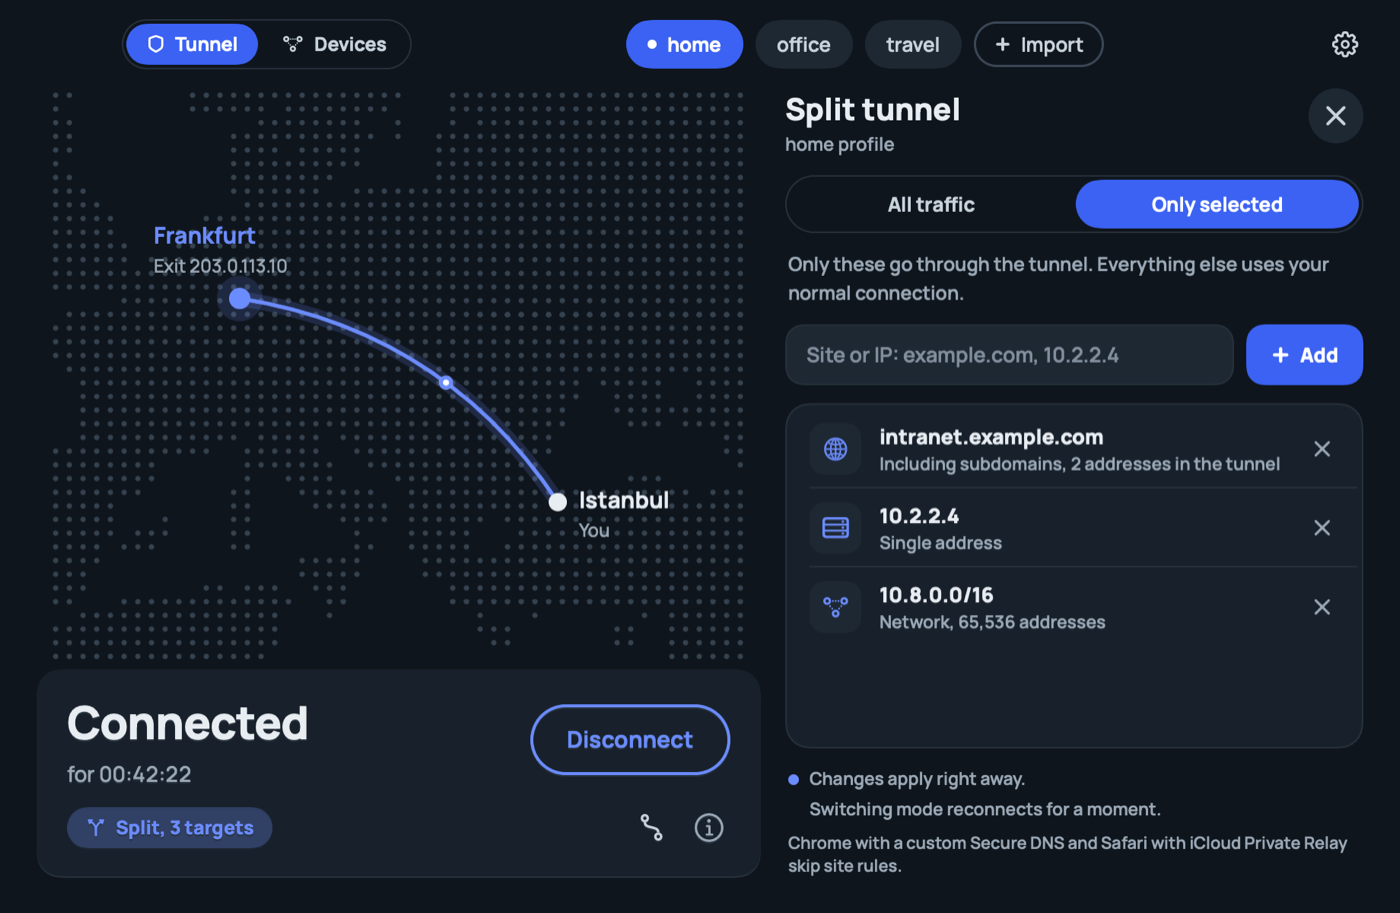
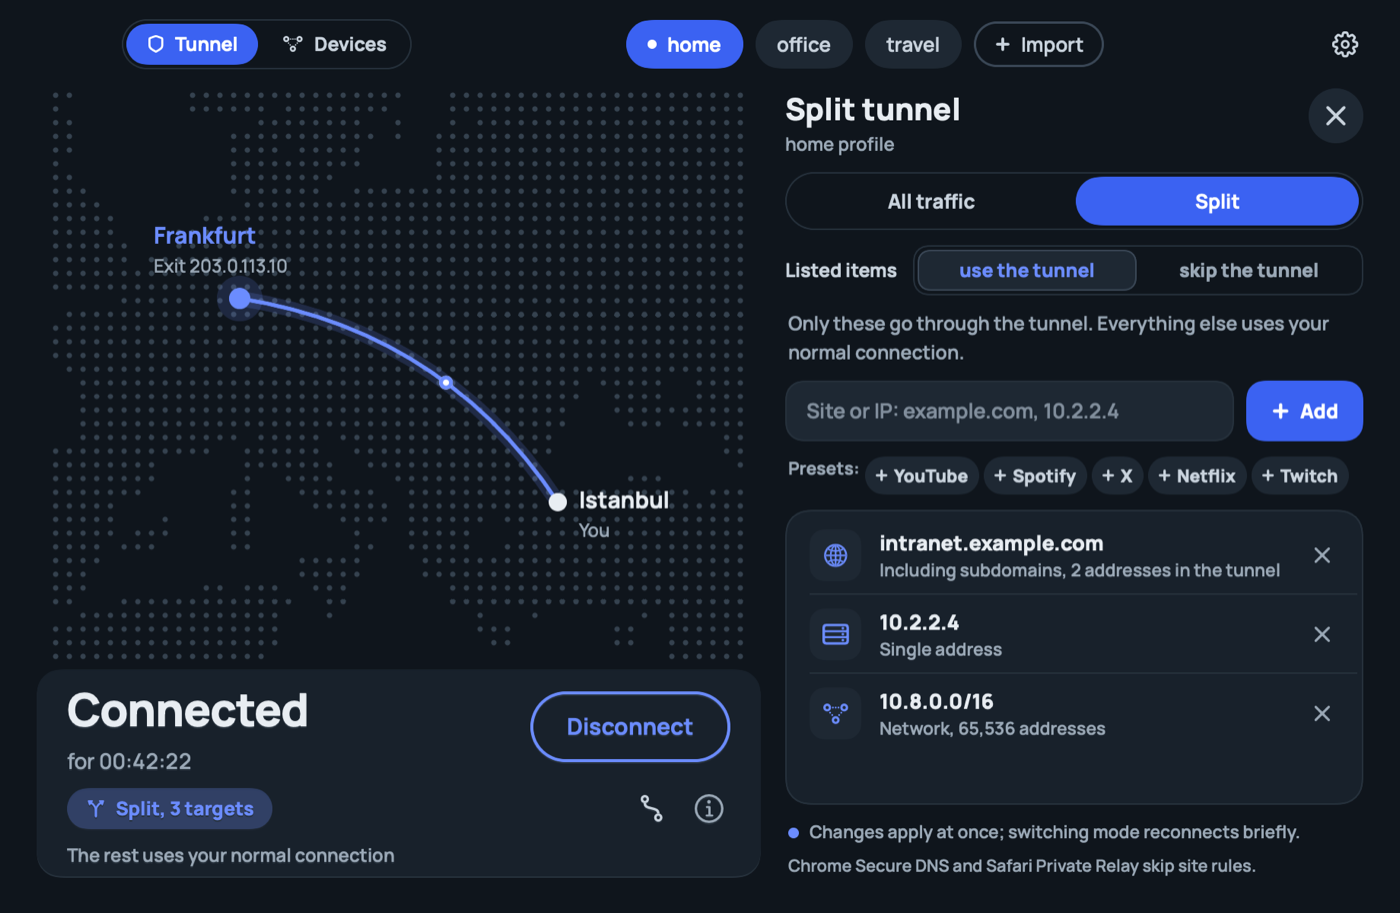
Split exclude docs, version 1.6.0

diff --git a/README.md b/README.md
@@ -40,7 +40,7 @@ It runs the same userspace implementation the official app uses ([wireguard-go](
 - **Survives network changes** — Wi-Fi switches and sleep/wake re-point the server route automatically.
 - **Route on the map** — trace the path to your VPN server or any site in about a second: every stop on the map, the encrypted part and the open-internet part drawn differently, and the stop where latency jumps. [More below](#route-trace).
 - **Devices on your network** — a map of everything on your Wi-Fi or Ethernet with the router in the middle, with names, kinds and vendors, an open-port check on request, and a notification when a device you haven't seen before joins. [More below](#devices).
-- **Split tunnel** — per profile, send only the sites and IPs you pick through the tunnel and everything else over your normal connection; add or remove them while connected. [More below](#split-tunnel).
+- **Split tunnel** — per profile, either send only the sites and IPs you pick through the tunnel, or send everything through it except the ones you list (with one-click presets for YouTube, Spotify, X, Netflix and Twitch); add or remove them while connected. [More below](#split-tunnel).
 - **Reconnects by itself** — if the tunnel drops, Wirely retries in the background (right away after sleep or when the network comes back) until it's up again.
 - **Settings that look like the app** — profiles (edit, rename, export, delete), connection, language, notifications, open at login and connect on launch, all on one page inside the window (⌘,).
 - **Tells you about updates** — once a day it checks GitHub for a new release and shows what's new in the app.
@@ -146,18 +146,46 @@ Switch to **Devices** at the top left. The router sits in the middle, every othe
 ### Split tunnel
 
 <p align="center">
-  <img src="docs/images/split-dark.png" width="620" alt="Wirely split tunnel: the map with the status card reading Split, 3 targets, and on the right the split panel set to Only selected with intranet.example.com, 10.2.2.4 and 10.8.0.0/16 in the list">
+  <img src="docs/images/split-dark.png" width="620" alt="Wirely split tunnel: the map with the status card reading Split, 3 targets, and on the right the split panel set to Split with intranet.example.com, 10.2.2.4 and 10.8.0.0/16 in the list">
+</p>
+<p align="center">
+  <img src="docs/images/split-exclude-dark.png" width="620" alt="Wirely split tunnel in exclude mode: the status card reading Tunnel, 3 excluded, and on the right the split panel set to Listed items skip the tunnel with the YouTube and Spotify presets and example.org in the list">
 </p>
 
-The button under the status on the main page (it reads *All traffic through the tunnel* or *Split, 3 targets*) opens the split panel. Choose **All traffic** (the default) or **Only selected**, then type a site (`example.com` covers its subdomains), an IP (`10.2.2.4`) or a network (`10.8.0.0/16`). Esc closes the panel.
+The button under the status on the main page opens the split panel. It reads *All traffic through the tunnel*, *Split, 3 targets* or *Tunnel, 3 excluded*. Esc closes the panel.
+
+Choose **All traffic** (the default) or **Split**. In Split, choose what the list means: **Listed items: use the tunnel** or **Listed items: skip the tunnel**. Each direction keeps its own list, so switching back and forth loses nothing.
+
+You can type a site (`example.com` covers its subdomains), an IP (`10.2.2.4`), a network (`10.8.0.0/16`) or a service name. Typing `youtube.com` or picking the YouTube preset adds every domain that service uses. The **Presets** chips cover YouTube, Spotify, X, Netflix and Twitch. A group row expands to show its domains.
+
+**Use the tunnel** (include):
 
 - **IP rules** become routes through the tunnel. The profile's own networks (AllowedIPs other than `0.0.0.0/0`) stay in the tunnel and show as *From the profile*.
 - **Site rules:** the service runs a small DNS forwarder on `127.0.0.1:53` and points macOS at it while you're connected. Names in your list are looked up through the profile's DNS servers inside the tunnel, and every address in the answer gets a route through the tunnel before the answer reaches the app. Every other name goes to your normal DNS servers unchanged. If another app already uses port 53, site rules are off and Wirely says so; IP rules keep working.
 - **Addresses the server doesn't accept** (not in the profile's AllowedIPs) are never routed into the tunnel, so the site doesn't hang. The panel shows them in red.
-- **Kill switch:** with split tunnel on, the kill switch blocks only the addresses in your list (and the profile's networks) if the tunnel drops; everything else keeps working. While it's blocking, names of listed sites may still be looked up through your normal DNS.
-- **Live changes:** adding or removing a rule works while connected, without reconnecting. Switching between All traffic and Only selected reconnects for a moment.
-- **Limits:** Chrome with a custom Secure DNS provider and Safari with iCloud Private Relay resolve names themselves, so site rules don't apply there (IP rules do). Sites behind a shared CDN address can pull other sites on the same address into the tunnel.
+- **Kill switch:** the kill switch blocks only the addresses in your list (and the profile's networks) if the tunnel drops; everything else keeps working. While it's blocking, names of listed sites may still be looked up through your normal DNS.
+
+**Skip the tunnel** (exclude):
+
+- Everything else goes through the tunnel exactly like All traffic.
+- Listed names are looked up with your network's own DNS servers, outside the tunnel, on sockets bound to the Wi-Fi/Ethernet interface. Their addresses get routes via your router.
+- Addresses on your local network are never rerouted.
+- Every bypass route is recorded in `/Library/Application Support/Wirely/bypass.json`, so the routes are removed after a crash or a restart.
+- If the DNS forwarder can't run, DNS stays as in full-tunnel mode (the profile's servers, through the tunnel), never on your ISP.
+- **Kill switch:** if the tunnel drops, everything is blocked except the listed items, using the addresses Wirely has already learned.
+
+**Both directions:**
+
+- **Live changes:** adding or removing a rule works while connected, without reconnecting. Switching between All traffic and Split, or between the two directions, reconnects for a moment.
 - The list is saved per profile in `~/Library/Application Support/Wirely/split.json` (`0600`).
+
+**Limits:**
+
+- Exclusions are IPv4 only.
+- There is no per-app exclusion; rules work on addresses, not programs.
+- Shared addresses: the YouTube preset also takes some other Google traffic (for example Gmail or Drive on the same addresses) out of the tunnel. The same applies to any site behind a shared CDN address, in either direction.
+- The preset domain lists are best effort. Services add and change domains, so a few may be missed.
+- Chrome with a custom Secure DNS provider and Safari with iCloud Private Relay resolve names themselves, so site rules don't apply there in either direction (IP rules do).
 
 ### Security and privacy
 
@@ -167,7 +195,7 @@ The button under the status on the main page (it reads *All traffic through the 
 - **Update check:** once a day Wirely asks GitHub's API for the latest release (`api.github.com/repos/luucas42/wirely/releases/latest`); nothing about you or your profiles is sent. Turn it off in **Settings → About → Check automatically**.
 - **Location lookups:** your own city comes from the system time zone — nothing is sent anywhere. The *server's* city is looked up once per server IP via [ipwho.is](https://ipwho.is) (fallback [ipinfo.io](https://ipinfo.io)) and cached for 30 days. When you trace a route, the stops' public addresses (routers) are looked up the same way. Private addresses are never looked up.
 - **Device scans stay on your local network.** Nothing about your devices is sent anywhere, and there are no internet lookups for them.
-- **Split tunnel DNS:** the forwarder listens only on `127.0.0.1`, keeps no log of queries, and sends listed names only to the profile's DNS servers, through the tunnel.
+- **Split tunnel DNS:** the forwarder listens only on `127.0.0.1`, keeps no log of queries, and sends listed names only to the profile's DNS servers, through the tunnel. In exclude mode, listed names go to your network's own DNS servers outside the tunnel; everything else goes to the profile's servers through it.
 - DNS changes are applied only to real network services (Wi-Fi, Ethernet…), never to other VPN apps' services.
 
 ### Limitations
